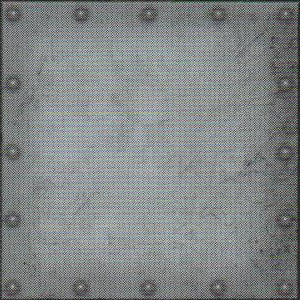
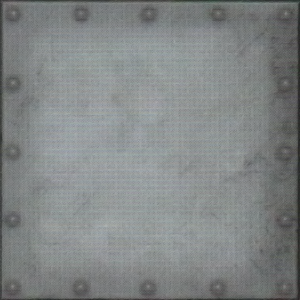
blurred plain.png, created stupid easy healthbar

diff --git a/src/main/java/sky7/gui/GUI.java b/src/main/java/sky7/gui/GUI.java
@@ -12,6 +12,7 @@ import com.badlogic.gdx.graphics.GL20;
 import com.badlogic.gdx.graphics.OrthographicCamera;
 import com.badlogic.gdx.graphics.Texture;
 import com.badlogic.gdx.graphics.g2d.BitmapFont;
+import com.badlogic.gdx.graphics.g2d.NinePatch;
 import com.badlogic.gdx.graphics.g2d.Sprite;
 import com.badlogic.gdx.graphics.g2d.SpriteBatch;
 import com.badlogic.gdx.graphics.g2d.TextureAtlas;
@@ -47,7 +48,10 @@ public class GUI implements ApplicationListener {
 	private int scaler = 128;
 	private ArrayList<ICard> hand;
 	private ArrayList<ICard> registry = new ArrayList<>(4);
-
+	private NinePatch health;
+	int healthwidth;
+	Texture container;
+	
 	public GUI(IClient game) throws FileNotFoundException {
 		this.game = game;
 		textures = new HashMap<>();
@@ -77,17 +81,21 @@ public class GUI implements ApplicationListener {
 			textures.put("dock", new Texture("assets/dock.png"));
 			textures.put("reset", new Texture("assets/dock/Reset.png"));
 			textures.put("confirm", new Texture("assets/dock/Confirm.png"));
-
+			textures.put("health", new Texture("assets/health.png"));
 			textureAtlas = new TextureAtlas("assets/cards/Cards.txt");
 
 			reset = new Sprite(textures.get("reset"));
-			confirm = new Sprite(textures.get("confirm"));
 			reset.setPosition(scaler*4, scaler+20);
+			confirm = new Sprite(textures.get("confirm"));
 			confirm.setPosition(scaler*11, scaler+20);
 			
+			health = new NinePatch(textures.get("health"), 0, 0, 0, 0);
+//			container = new NinePatch(containerRegion, 5, 5, 2, 2);
 			hand = game.getHand();
 			addSprites();
 			setHandPos(hand);
+			
+			healthwidth = Integer.parseInt(game.getPlayer().getHealth().toString()) / 10*128;
 		} catch (FileNotFoundException e) {
 			e.printStackTrace();
 		}
@@ -119,6 +127,8 @@ public class GUI implements ApplicationListener {
 		showRegistry();
 		
 		chooseCards();
+		
+		health.draw(batch, 64, 13*scaler, healthwidth, height);
 		
 		if(!cardsChoosen && pointer != 0) {
 			reset.draw(batch);
